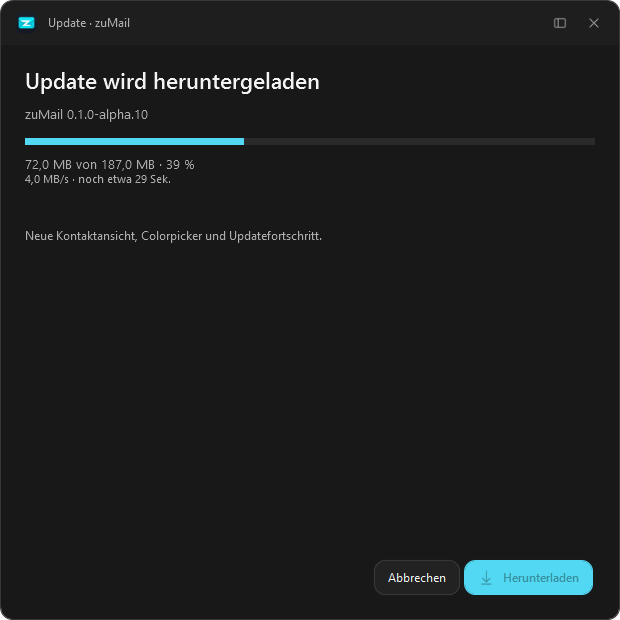
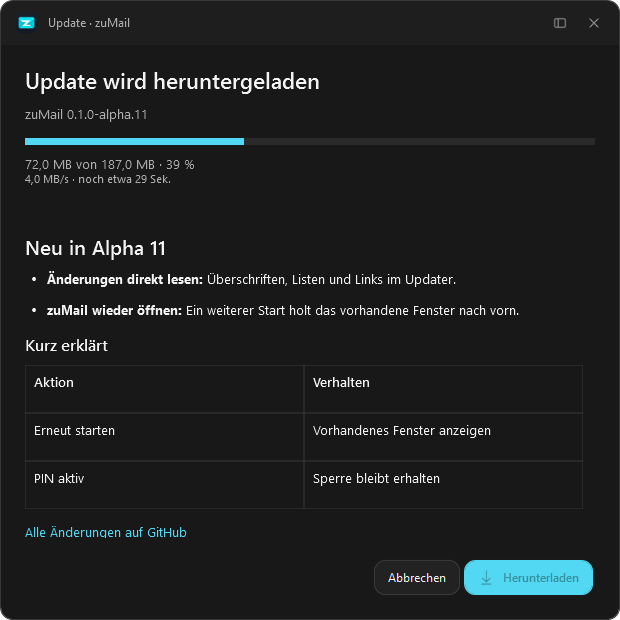
zuMail 0.1.0-alpha.11 release documentation

diff --git a/README.md b/README.md
@@ -1,17 +1,17 @@
 <p align="center"><img src="assets/app-icon.png" width="112" height="112" alt="zuMail"></p>
 <h1 align="center">zuMail</h1>
 <p align="center">Korrespondenz mit Charakter.</p>
-<p align="center"><a href="https://github.com/ZUMBYTE-AppSolution/zuMail/releases/tag/v0.1.0-alpha.10">Herunterladen</a> · <a href="docs/Anleitung.md">Anleitung</a> · <a href="CHANGELOG.md">Changelog</a> · <a href="https://www.zumbyte.de/support/">Support</a></p>
+<p align="center"><a href="https://github.com/ZUMBYTE-AppSolution/zuMail/releases/tag/v0.1.0-alpha.11">Herunterladen</a> · <a href="docs/Anleitung.md">Anleitung</a> · <a href="CHANGELOG.md">Changelog</a> · <a href="https://www.zumbyte.de/support/">Support</a></p>
 
 zuMail ist ein Mailprogramm für Windows von **Zumbyte - AppSolution**. Trenne private und geschäftliche Post in Arbeitsbereiche, verwalte mehrere Konten und behalte Nachrichten und Kontakte im Blick. Mit hellem oder dunklem Design, eigener Akzentfarbe und verstellbarer Aufteilung.
 
-## Download · Alpha 10
+## Download · Alpha 11
 
 | Für Windows 10 / 11 x64 | Download |
 | --- | --- |
-| Mit Installation | [zuMail installieren](https://github.com/ZUMBYTE-AppSolution/zuMail/releases/download/v0.1.0-alpha.10/zuMail-0.1.0-alpha.10-win-x64-Setup.exe) |
-| Ohne Installation | [Portable ZIP herunterladen](https://github.com/ZUMBYTE-AppSolution/zuMail/releases/download/v0.1.0-alpha.10/zuMail-0.1.0-alpha.10-win-x64-Portable.zip) |
-| Dateien überprüfen | [SHA-256-Prüfsummen](https://github.com/ZUMBYTE-AppSolution/zuMail/releases/download/v0.1.0-alpha.10/SHA256SUMS.txt) |
+| Mit Installation | [zuMail installieren](https://github.com/ZUMBYTE-AppSolution/zuMail/releases/download/v0.1.0-alpha.11/zuMail-0.1.0-alpha.11-win-x64-Setup.exe) |
+| Ohne Installation | [Portable ZIP herunterladen](https://github.com/ZUMBYTE-AppSolution/zuMail/releases/download/v0.1.0-alpha.11/zuMail-0.1.0-alpha.11-win-x64-Portable.zip) |
+| Dateien überprüfen | [SHA-256-Prüfsummen](https://github.com/ZUMBYTE-AppSolution/zuMail/releases/download/v0.1.0-alpha.11/SHA256SUMS.txt) |
 
 Die App befindet sich in der Alpha-Phase. Neue Profile starten leer; es werden keine Beispielmails oder Kontakte angelegt. Die Pakete sind derzeit unsigniert. Verfügbar für Windows x64; macOS und iOS sind geplant.
 
@@ -42,7 +42,7 @@ Adressbuch auswählen, Kontakt suchen und Details ansehen. Eine neue Mail lässt
 
 **Update herunterladen**
 
-![Update mit Downloadfortschritt](assets/screenshots/zuMail-update.png)
+![Markdown-Änderungshinweise und Downloadfortschritt](assets/screenshots/zuMail-update.png)
 
 **Nachricht verfassen**
 
@@ -52,14 +52,11 @@ Adressbuch auswählen, Kontakt suchen und Details ansehen. Eine neue Mail lässt
 
 Die Screenshots zeigen eigens angelegte Testinhalte. Diese werden nicht mit der App ausgeliefert.
 
-## Neu in Alpha 10
+## Neu in Alpha 11
 
-- **Kontakte neu gestaltet:** Adressbücher, Kontaktliste und alle Details nebeneinander. Die Suche findet auch Firmen, Telefonnummern, Anschriften und Notizen.
-- **Kontakte übersichtlicher bearbeiten:** Eigene Bereiche für Person, Kontaktdaten, Adressen und weitere Angaben. Mehrere Mailadressen, Telefonnummern und Anschriften lassen sich einzeln ergänzen oder entfernen.
-- **Farben direkt auswählen:** Farbfläche, Farbtonregler, Vorschau und Hex-Eingabe für die Akzentfarbe und Textfarben beim Verfassen.
-- **Updates mit Fortschritt:** Anzeige von Prozent, geladener Datenmenge, Geschwindigkeit und geschätzter Restzeit. Downloads lassen sich abbrechen und erneut starten.
-- **Nach dem Update weiterarbeiten:** Nach erfolgreicher Installation öffnet sich zuMail wieder mit dem bisherigen Profil. Konten, Einstellungen und eine eingerichtete PIN-Sperre bleiben erhalten.
-- **Fehler beim Beenden behoben:** Das Hauptfenster schließt auch dann zuverlässig, wenn das Speichern sofort abgeschlossen ist.
+- **Änderungen im Updater formatiert lesen:** Überschriften, Listen, Hervorhebungen, Tabellen, Links und Screenshots werden direkt angezeigt. Text lässt sich markieren und kopieren. Die Ansicht passt sich dem hellen oder dunklen Design an.
+- **zuMail erneut öffnen:** Ein weiterer Start holt das bereits geöffnete Fenster nach vorn. Minimierte oder im Infobereich versteckte Fenster werden wiederhergestellt; eine vorher maximierte Ansicht bleibt maximiert. Es erscheint keine Meldung „ist bereits geöffnet“ mehr.
+- **Sperre und Arbeitsstand bleiben erhalten:** Die vorhandene Sitzung wird weiterverwendet. Eine aktive PIN-Sperre bleibt bestehen; ein zusätzlicher Windows-Autostart bleibt im Hintergrund.
 
 [Alle Änderungen ansehen](CHANGELOG.md)
 
@@ -76,7 +73,7 @@ Die Screenshots zeigen eigens angelegte Testinhalte. Diese werden nicht mit der 
 | Anpassen | Dark/Light Mode, Farbauswahl, verstellbare Bereiche, schmale Scrollleisten und sortierbare Sidebar |
 | Sicherheit | Verschlüsselter lokaler Speicher, optionale 4-/6-stellige PIN, Autolock und passwortgeschützte Sicherungen |
 | Windows | Benachrichtigungen, einstellbare Töne, Hintergrundbetrieb und Autostart auf Wunsch minimiert |
-| Updates | Updateprüfung, Downloadfortschritt und Neustart nach der Installation |
+| Updates | Formatierte Änderungshinweise, Downloadfortschritt und Neustart nach der Installation |
 
 Externe Bilder in HTML-Mails werden erst nach Freigabe geladen. Auf Wunsch kannst du einer Absenderadresse dauerhaft vertrauen. Seitenskripte bleiben gesperrt.
 

diff --git a/docs/Pruefung.md b/docs/Pruefung.md
@@ -1,8 +1,16 @@
-# Prüfung · 0.1.0-alpha.10
+# Prüfung · 0.1.0-alpha.11
 
-268 automatische Prüfungen mit getrennten Testprofilen und eigenen IMAP-/SMTP-Testservern. Es wurden keine echten Mailkonten, Kontakte oder Dokumente verändert.
+285 automatische Prüfungen mit getrennten Testprofilen und eigenen IMAP-/SMTP-Testservern. Es wurden keine echten Mailkonten, Kontakte oder Dokumente verändert.
 
-## Neu geprüft
+## Neu in Alpha 11 geprüft
+
+- Echte lokale Aktivierungsanfragen zwischen getrennten Prozessen, mehrere gleichzeitige Starts, ungültige Anfragen, Abbruch und Trennung verschiedener Profile.
+- Wiederherstellung des tatsächlichen minimierten und versteckten WPF-Hauptfensters. Maximierte Ansichten bleiben maximiert; PIN-Sperre und verborgener Mailinhalt bleiben erhalten.
+- Die Windows-Freigabe für den Vordergrundwechsel wird beim ausdrücklichen Zweitstart an die bestehende Instanz übergeben. Die automatisierten Fensterprüfungen verwenden unsichtbare Testfenster ohne Eingriff in den Desktop des Benutzers; ein manueller Start aus Explorer wurde nicht automatisiert.
+- Native Markdown-Darstellung mit tatsächlichen Überschriften, Listen, fettem Text, Tabellen, Code und funktionierenden Links. Kopierbarer Text und Dark/Light Mode geprüft.
+- Screenshots aus begrenzten Rasterdaten angezeigt. Nur Bilder aus der offiziellen Releasequelle werden automatisch geladen; fremde Bilder bleiben verlinkt. Skript- und lokale Dateilinks sind nicht ausführbar; HTML bleibt Text.
+
+## Weiterhin geprüft
 
 - Kontakte: Suche über mehrere Felder, Arbeitsbereichs- und Adressbuchgrenzen, leere Ergebnisse, strukturierte Bearbeitung, ungültige Mailadressen und Speicherung im verschlüsselten Profil.
 - Datenbestand: Bearbeiten und Abbrechen verändern die Originalkontakte nicht vor dem Speichern. Zusätzliche vCard-Felder, Anbieterzuordnung und ETags bleiben erhalten. Abbrechen der Adressbuchbearbeitung erhält bestehende Zugangsdaten.
@@ -24,7 +32,7 @@
 
 ## Pakete
 
-- Dieselben 268 Prüfungen gegen das tatsächlich installierte Paket ausgeführt.
+- Dieselben 285 Prüfungen gegen das tatsächlich installierte Paket ausgeführt.
 - Installierte Programmdatei und Chromium-Ressourcen mit dem Build verglichen. Portable ZIP Datei für Datei gegen den Build geprüft.
 - Deinstallation entfernt die Programmdateien und erhält fremde Testdateien und Profile. Bestehende Startmenüverknüpfungen und Registrierungseinträge des Prüfgeräts werden nach dem Test wiederhergestellt.
 - Keine Beispieldaten, vorbereiteten Profile oder OAuth-Registrierungen enthalten. Inhalte der Screenshots stammen ausschließlich aus den getrennten Testläufen.

diff --git a/docs/Anleitung.md b/docs/Anleitung.md
@@ -132,3 +132,9 @@ Beim Schließen einer geänderten Nachricht ausdrücklich Entwurf speichern, Ver
 **Importieren** liest vCard-Dateien; **Exportieren** exportiert die aktuell gefilterte Ansicht. Im Rechtsklickmenü lässt sich auch nur der ausgewählte Kontakt exportieren. Unter **Adressbücher** lokale Namen und bestehende Verbindungen bearbeiten oder CardDAV hinzufügen. **Synchronisieren** gleicht aktivierte Adressbücher der aktuellen Ansicht ab.
 
 Unter **Einstellungen → Darstellung → Erscheinungsbild** öffnet **Farbe auswählen** den Colorpicker. In der Farbfläche Sättigung und Helligkeit wählen, am Regler den Farbton einstellen oder einen Hex-Wert wie #52D8F3 eingeben. Erst **Übernehmen** bestätigt die Farbe. Der gleiche Picker steht beim Verfassen für Textfarben bereit.
+
+## Änderungen lesen und zuMail erneut öffnen
+
+Der Updater zeigt den Changelog mit formatierten Überschriften, Listen, Tabellen und Links. Text lässt sich markieren und kopieren. Screenshots aus der offiziellen Releasequelle erscheinen direkt; andere Bildadressen lassen sich über ihren Link im Browser öffnen.
+
+Ist zuMail schon geöffnet, holt ein weiterer Start das vorhandene Fenster nach vorn. Das gilt auch für minimierte oder im Infobereich versteckte Fenster. Eine aktive PIN-Sperre bleibt erhalten. Ein zusätzlicher automatischer Start bei der Windows-Anmeldung öffnet das Fenster nicht ungefragt.

diff --git a/CHANGELOG.md b/CHANGELOG.md
@@ -1,5 +1,13 @@
 # Changelog
 
+## 0.1.0-alpha.11
+
+- **Änderungen im Updater formatiert lesen:** Überschriften, Listen, Hervorhebungen, Tabellen, Links und Screenshots werden direkt angezeigt. Text lässt sich markieren und kopieren. Die Ansicht passt sich dem hellen oder dunklen Design an.
+- **zuMail erneut öffnen:** Ein weiterer Start holt das bereits geöffnete Fenster nach vorn. Minimierte oder im Infobereich versteckte Fenster werden wiederhergestellt; eine vorher maximierte Ansicht bleibt maximiert. Es erscheint keine Meldung „ist bereits geöffnet“ mehr.
+- **Sperre und Arbeitsstand bleiben erhalten:** Die vorhandene Sitzung wird weiterverwendet. Eine aktive PIN-Sperre bleibt bestehen; ein zusätzlicher Windows-Autostart bleibt im Hintergrund.
+
+285 automatische Prüfungen. Markdown in Dark/Light Mode, Fensterwiederherstellung und Anfragen zwischen getrennten Prozessen geprüft. Installer, Update-Neustart, Deinstallation und öffentliche Downloads geprüft. Neue Profile starten leer.
+
 ## 0.1.0-alpha.10
 
 - **Kontakte neu gestaltet:** Adressbücher, Kontaktliste und alle Details nebeneinander. Die Suche findet auch Firmen, Telefonnummern, Anschriften und Notizen.
